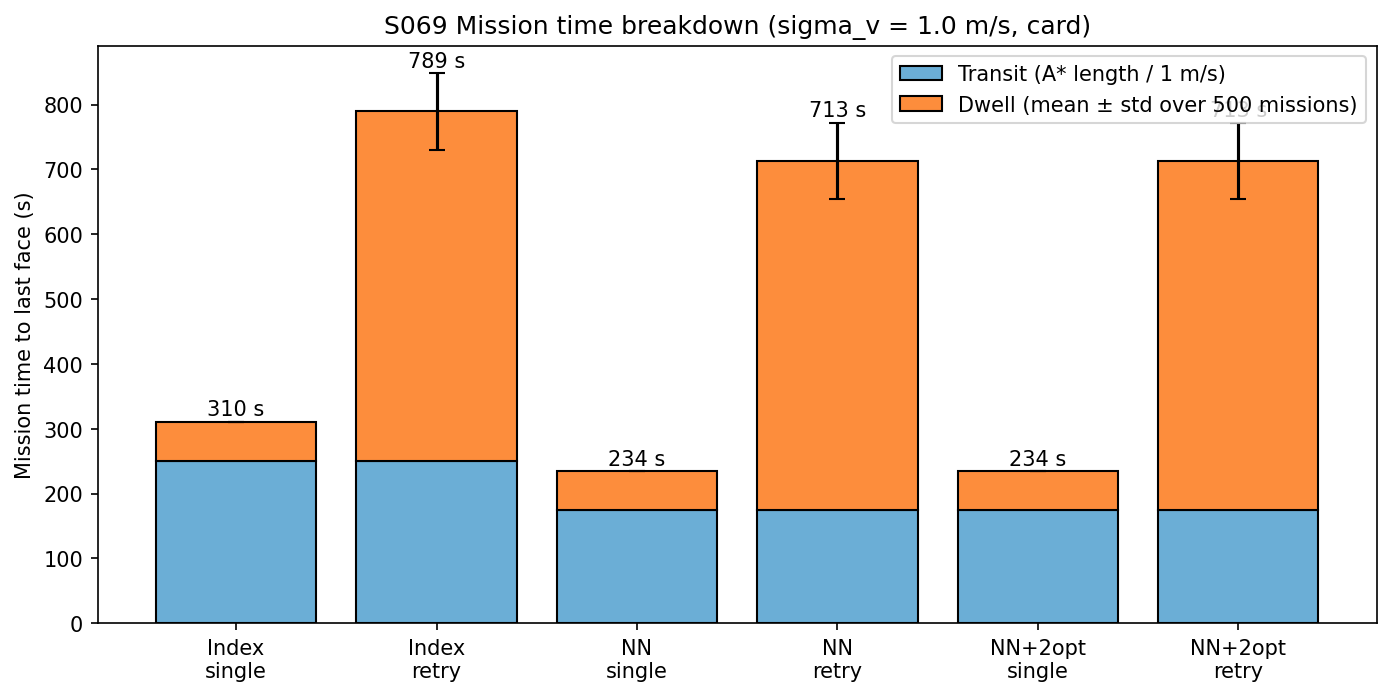
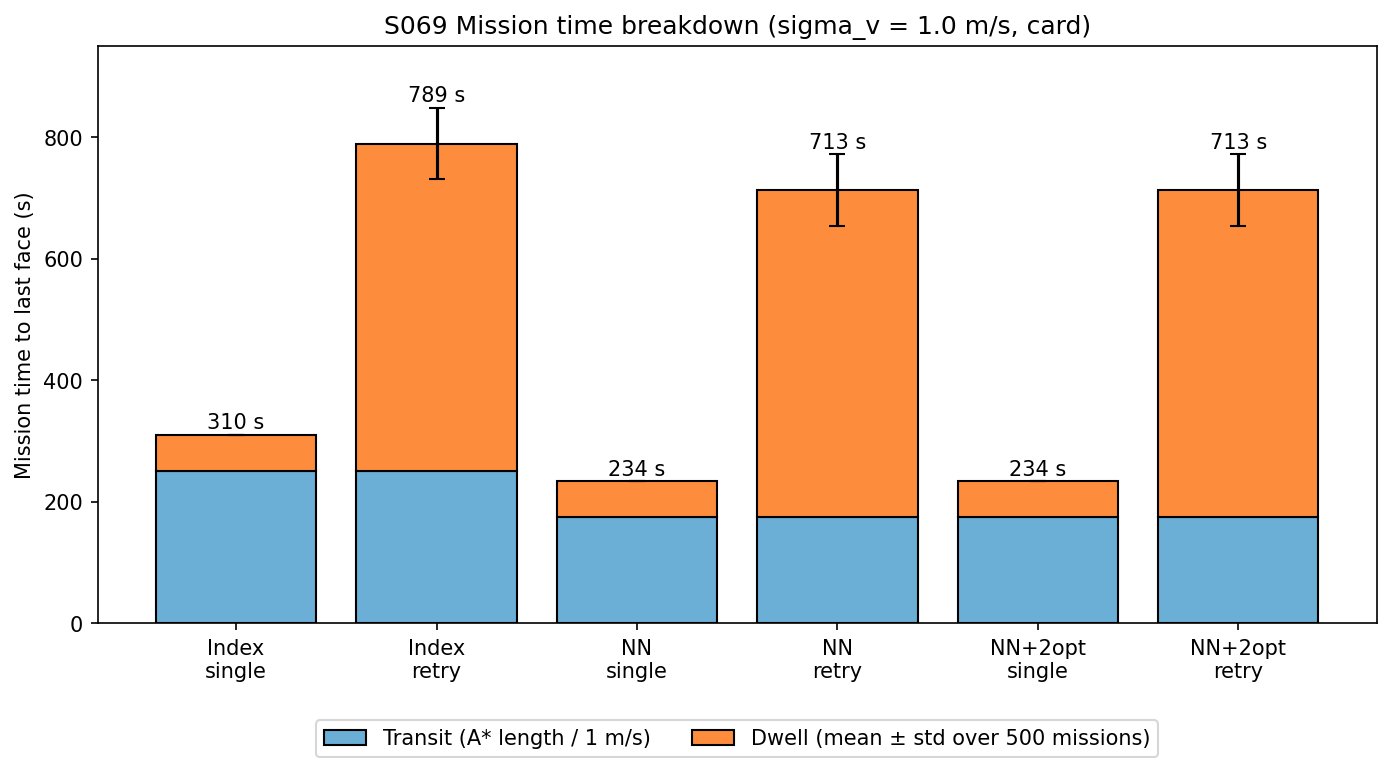
Fix S069 Automated Warehouse Inventory: address review follow-ups

diff --git a/src/04_industrial_agriculture/s069_warehouse_inventory.py b/src/04_industrial_agriculture/s069_warehouse_inventory.py
@@ -402,7 +402,8 @@ def plot_time_breakdown(res, out_dir):
     ax.set_xticklabels(labels)
     ax.set_ylabel('Mission time to last face (s)')
     ax.set_title(f'S069 Mission time breakdown (sigma_v = {SIGMA_V:.1f} m/s, card)')
-    ax.legend()
+    ax.legend(loc='upper center', bbox_to_anchor=(0.5, -0.15), ncol=2)
+    ax.set_ylim(0, max(t + d + e for t, d, e in zip(tr, dw, err)) * 1.12)
     path = os.path.join(out_dir, 'time_breakdown.png')
     plt.savefig(path, dpi=150, bbox_inches='tight')
     plt.close(fig)

diff --git a/outputs/04_industrial_agriculture/s069_warehouse_inventory/README.md b/outputs/04_industrial_agriculture/s069_warehouse_inventory/README.md
@@ -69,7 +69,7 @@ conda activate drones
 python src/04_industrial_agriculture/s069_warehouse_inventory.py
 ```
 
-Runtime: 140 s and 161 s in the two reproducibility runs, with about ten other simulations running on the same machine. The code asserts that no waypoint or path node is occupied, that A* matches Dijkstra on every leg, and that none of the 30 000 noisy hover positions touches a rack (minimum clearance 0.093 m against the nominal 0.5 m).
+Runtime: 51 s and 44 s in the two reproducibility runs (single-threaded BLAS); the first runs, with about ten other simulations on the same machine, took 140–161 s. The code asserts that no waypoint or path node is occupied, that A* matches Dijkstra on every leg, and that none of the 30 000 noisy hover positions touches a rack (minimum clearance 0.093 m against the nominal 0.5 m).
 
 ---
 
